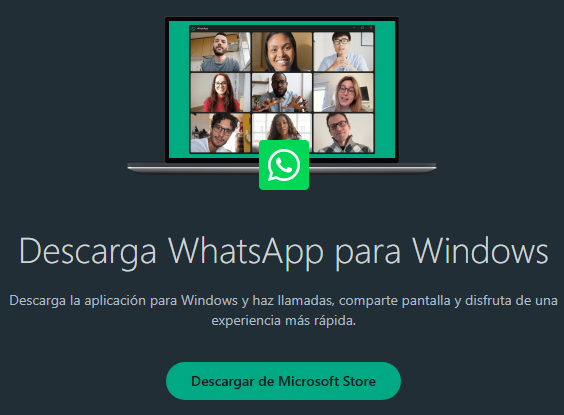
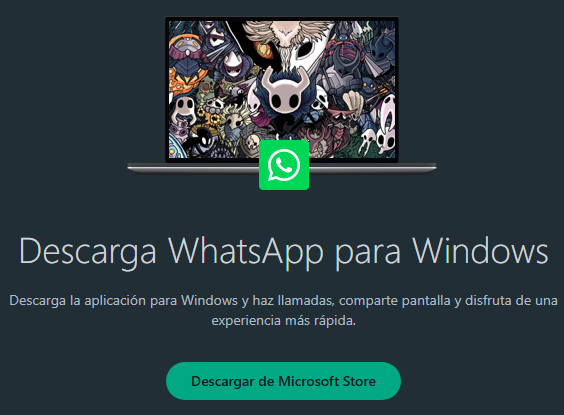
Cambio de iconos, estos iconos ya estaban, solo los mejore revisar commits

Changed region(s): [[0.3014, 0.0289, 0.7234, 0.4048]]

diff --git a/Table10.html b/Table10.html
@@ -47,10 +47,10 @@
                             <table border="2" bordercolor="#111B21" bgcolor="#111B21" align="center" width="100%">
                                 <tr>
                                     <td rowspan="3" colspan="1">
-                                        <img src="images/perfil.png" srcset="">
+                                        <img src="Hollow_images/cloth.png" srcset="">
                                     </td>
                                     <th valign="bottom" align="left">
-                                        <font size="3" face="Arial" color="#E9EDEF">Hollow Knight</font>
+                                        <font size="3" face="Arial" color="#E9EDEF">Cloth</font>
                                     </th>
                                 <tr>
                                     <th valign="top" align="left">
@@ -86,10 +86,10 @@
                             <table border="2" bordercolor="#111B21" bgcolor="#111B21" align="center" width="100%">
                                 <tr>
                                     <td rowspan="3" colspan="1">
-                                        <img src="images/perfil.png" srcset="">
+                                        <img src="Hollow_images/hornet.png" srcset="">
                                     </td>
                                     <th valign="bottom" align="left">
-                                        <font size="3" face="Arial" color="#E9EDEF">Hollow Knight</font>
+                                        <font size="3" face="Arial" color="#E9EDEF">Hornet</font>
                                     </th>
                                 <tr>
                                     <th valign="top" align="left">
@@ -125,10 +125,10 @@
                             <table border="2" bordercolor="#111B21" bgcolor="#111B21" align="center" width="100%">
                                 <tr>
                                     <td rowspan="3" colspan="1">
-                                        <img src="images/perfil.png" srcset="">
+                                        <img src="Hollow_images/zote.png" srcset="">
                                     </td>
                                     <th valign="bottom" align="left">
-                                        <font size="3" face="Arial" color="#E9EDEF">Hollow Knight</font>
+                                        <font size="3" face="Arial" color="#E9EDEF">Zote</font>
                                     </th>
                                 <tr>
                                     <th valign="top" align="left">
@@ -164,10 +164,10 @@
                             <table border="2" bordercolor="#111B21" bgcolor="#111B21" align="center" width="100%">
                                 <tr>
                                     <td rowspan="3" colspan="1">
-                                        <img src="images/perfil.png" srcset="">
+                                        <img src="Hollow_images/viejo insecto.png" srcset="">
                                     </td>
                                     <th valign="bottom" align="left">
-                                        <font size="3" face="Arial" color="#E9EDEF">Hollow Knight</font>
+                                        <font size="3" face="Arial" color="#E9EDEF">Viejo insecto</font>
                                     </th>
                                 <tr>
                                     <th valign="top" align="left">
@@ -203,10 +203,10 @@
                             <table border="2" bordercolor="#111B21" bgcolor="#111B21" align="center" width="100%">
                                 <tr>
                                     <td rowspan="3" colspan="1">
-                                        <img src="images/perfil.png" srcset="">
+                                        <img src="Hollow_images/Myla.png" srcset="">
                                     </td>
                                     <th valign="bottom" align="left">
-                                        <font size="3" face="Arial" color="#E9EDEF">Hollow Knight</font>
+                                        <font size="3" face="Arial" color="#E9EDEF">Myla</font>
                                     </th>
                                 <tr>
                                     <th valign="top" align="left">
@@ -242,10 +242,10 @@
                             <table border="2" bordercolor="#111B21" bgcolor="#111B21" align="center" width="100%">
                                 <tr>
                                     <td rowspan="3" colspan="1">
-                                        <img src="images/perfil.png" srcset="">
+                                        <img src="Hollow_images/chaman caracol.png" srcset="">
                                     </td>
                                     <th valign="bottom" align="left">
-                                        <font size="3" face="Arial" color="#E9EDEF">Hollow Knight</font>
+                                        <font size="3" face="Arial" color="#E9EDEF">Chaman Caracol</font>
                                     </th>
                                 <tr>
                                     <th valign="top" align="left">
@@ -281,49 +281,10 @@
                             <table border="2" bordercolor="#111B21" bgcolor="#111B21" align="center" width="100%">
                                 <tr>
                                     <td rowspan="3" colspan="1">
-                                        <img src="images/perfil.png" srcset="">
+                                        <img src="Hollow_images/emilitia.png" srcset="">
                                     </td>
                                     <th valign="bottom" align="left">
-                                        <font size="3" face="Arial" color="#E9EDEF">Hollow Knight</font>
-                                    </th>
-                                <tr>
-                                    <th valign="top" align="left">
-                                        <font size="2" face="Arial" color="#8696A0">Hola como estas?</font>
-                                    </th>
-                                </tr>
-                            </table>
-                        </th>
-                        <th align="left" colspan="3">
-                            <table border="2" bordercolor="#111B21" bgcolor="#111B21" align="center" width="100%">
-                                <tr>
-                                    <th>
-                                        <font size="4" face="Arial" color="white">&nbsp;</font>
-                                    </th>
-                                    <th align="right">
-                                        <font size="2" face="Arial" color="#8696A0">10:10 a.m</font>
-                                    </th>
-                                </tr>
-                                <tr>
-                                    <th>
-                                        <font size="4" face="Arial" color="white">&nbsp;</font>
-                                    </th>
-                                    <th>
-                                        <font size="2" face="Arial" color="#8696A0">&nbsp;</font>
-                                    </th>
-                                </tr>
-                            </table>
-                        </th>
-                    </tr>
-
-                    <tr>
-                        <th align="left">
-                            <table border="2" bordercolor="#111B21" bgcolor="#111B21" align="center" width="100%">
-                                <tr>
-                                    <td rowspan="3" colspan="1">
-                                        <img src="images/perfil.png" srcset="">
-                                    </td>
-                                    <th valign="bottom" align="left">
-                                        <font size="3" face="Arial" color="#E9EDEF">Hollow Knight</font>
+                                        <font size="3" face="Arial" color="#E9EDEF">Emilitia</font>
                                     </th>
                                 <tr>
                                     <th valign="top" align="left">
